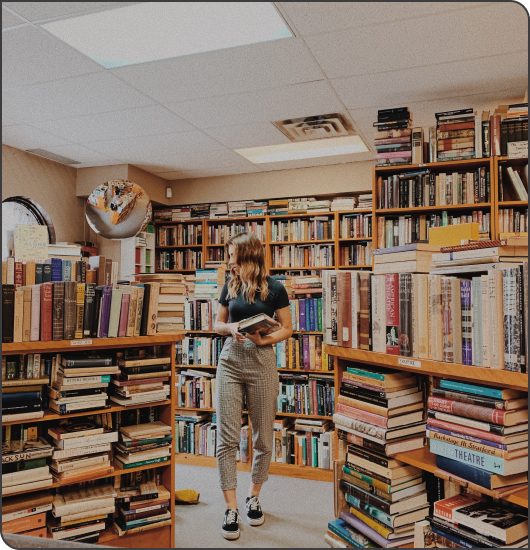
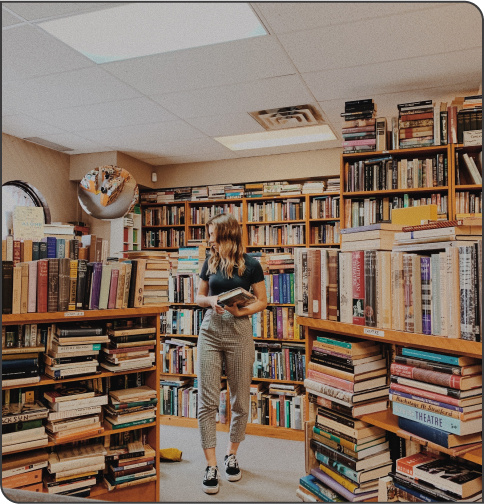
:lipstick: chore: HeroHeader changes on media queries

diff --git a/components/Home/components/HeroSection/index.tsx b/components/Home/components/HeroSection/index.tsx
@@ -11,12 +11,16 @@ import { Binoculars } from 'phosphor-react';
 export const HeroSection = () => {
   const HeroHeader = styled('div', {
     color: '$gray800',
-    maxWidth: '535px',
+    width: '100%',
+
+    '@lg': {
+      maxWidth: '535px',
+    },
   });
 
   const HeroImage = styled('div', {
-    width: '530px',
-    maxHeight: '550px',
+    width: '485px',
+    maxHeight: '503px',
     position: 'relative',
 
     '&:before': {
@@ -44,14 +48,14 @@ export const HeroSection = () => {
   const GifBox = styled('span', {
     position: 'absolute',
 
-    '@sm': {
+    '@xl': {
       right: '45px',
       bottom: '-60px',
     },
 
     img: {
       width: '60px',
-      '@sm': {
+      '@xl': {
         width: '141px',
       },
     },
@@ -61,7 +65,7 @@ export const HeroSection = () => {
     <Box
       css={{
         alignItems: 'center',
-        marginTop: '50px',
+        marginTop: '40px',
         gap: '30px',
         justifyContent: 'space-between',
         flexWrap: 'wrap',
@@ -75,6 +79,7 @@ export const HeroSection = () => {
         <TitleH1
           css={{
             position: 'relative',
+            maxWidth: '535px',
           }}
         >
           What book you looking for?
@@ -85,7 +90,7 @@ export const HeroSection = () => {
 
         <TextSmall>Explore our catalog and find your next read.</TextSmall>
 
-        {/* <InputSearch /> */}
+        <InputSearch />
 
         <ButtonLink href="/" color="yellow">
           Explore
@@ -96,8 +101,8 @@ export const HeroSection = () => {
       <HeroImage>
         <Image
           src="/assets/book-store-img.jpg"
-          width={530}
-          height={550}
+          width={485}
+          height={503}
           alt=""
           layout="responsive"
           objectFit="cover"

diff --git a/components/InputSearch/index.tsx b/components/InputSearch/index.tsx
@@ -1,7 +1,34 @@
+import { styled } from '../../styles/stitches.config';
+
 export const InputSearch = () => {
+  const InputSearch = styled('input', {
+    border: '2px solid $gray800',
+    borderRadius: '20px',
+
+    backgroundColor: 'white',
+    paddingBlock: '.5rem',
+    paddingInline: '1.25rem',
+    marginTop: '2.125rem',
+    marginBottom: '1.5rem',
+
+    minWidth: '100%',
+
+    '@xl': {
+      width: '535px',
+    },
+    '@md': {
+      minWidth: '80%',
+    },
+  });
+
   return (
-    <div>
-      <h1>InputSearch</h1>
-    </div>
+    <>
+      <InputSearch
+        type="search"
+        name="search"
+        id="search"
+        placeholder="Type the name of book or author..."
+      />
+    </>
   );
 };

diff --git a/components/ButtonLink/index.tsx b/components/ButtonLink/index.tsx
@@ -19,8 +19,10 @@ export const ButtonLink: React.FC<ButtonLinkProps> = ({
         fontSize="small"
         borderRadius="small"
         css={{
-          width: '153px',
           height: '51px',
+          '@sm': {
+            width: '153px',
+          },
         }}
       >
         {children}

diff --git a/styles/Container/index.ts b/styles/Container/index.ts
@@ -4,10 +4,13 @@ export const Container = styled('div', theme, {
   // width: '100%',
   maxWidth: '1440px',
   minHeight: '100vh',
-  margin: '0 2.5rem',
+  margin: '0 1rem',
 
   '@md': {
     margin: '0 5.625rem',
+  },
+  '@sm': {
+    margin: '0 3rem',
   },
 
   fontFamily: '$primary',

diff --git a/styles/stitches.config.ts b/styles/stitches.config.ts
@@ -40,6 +40,7 @@ export const { styled, theme, css } = createStitches({
     },
   },
   media: {
+    xs: '(min-width: 450px)',
     sm: '(min-width: 576px)',
     md: '(min-width: 768px)',
     lg: '(min-width: 992px)',

diff --git a/styles/Texts/TextSmall/index.ts b/styles/Texts/TextSmall/index.ts
@@ -1,6 +1,6 @@
 import { styled } from '../../stitches.config';
 
-export const TextSmall = styled('h1', {
+export const TextSmall = styled('p', {
   fontFamily: '$secondary',
   fontSize: '$14',
   fontWeight: '400',

diff --git a/components/Navbar/index.tsx b/components/Navbar/index.tsx
@@ -16,7 +16,7 @@ export const Navbar = () => {
     flex: '1',
     display: 'flex',
     justifyContent: 'flex-end',
-    gap: '24px',
+    gap: '25px',
   });
 
   return (

diff --git a/styles/Titles/TitleH1/index.ts b/styles/Titles/TitleH1/index.ts
@@ -6,7 +6,7 @@ export const TitleH1 = styled('h1', {
   fontWeight: '400',
   marginBottom: '1.5rem',
 
-  '@sm': {
+  '@xs': {
     fontSize: '$64',
   }
 });
